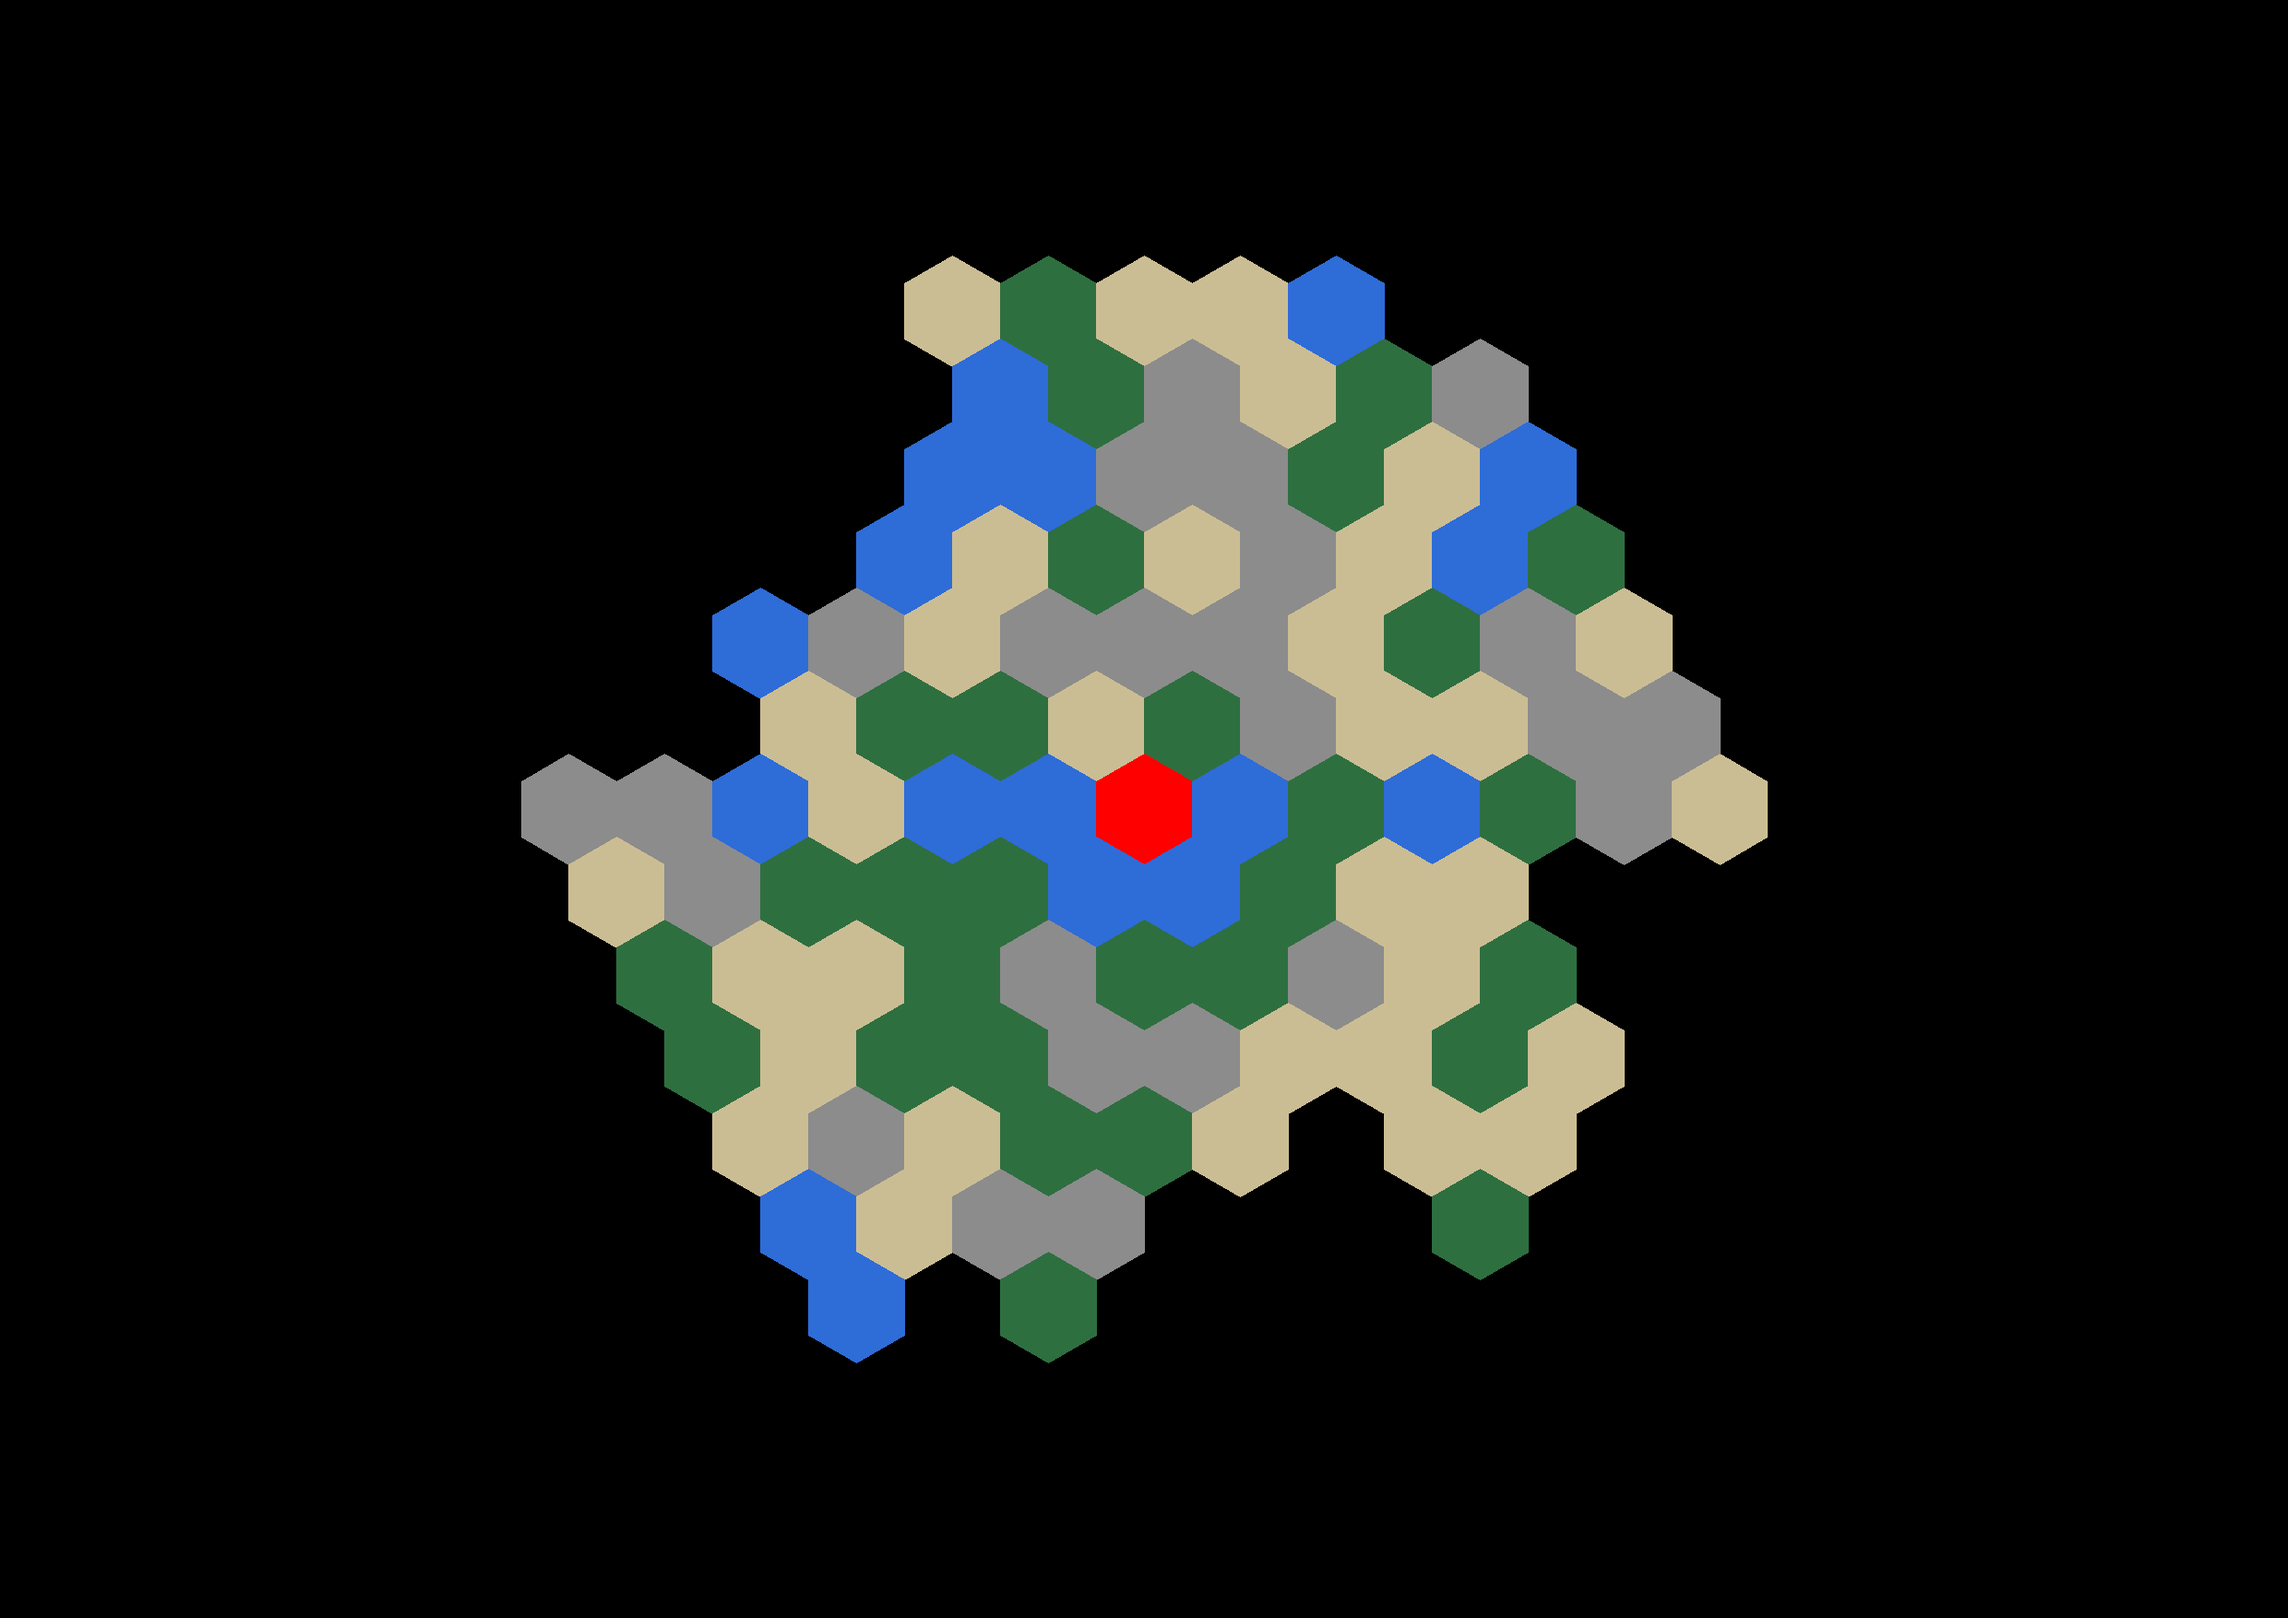
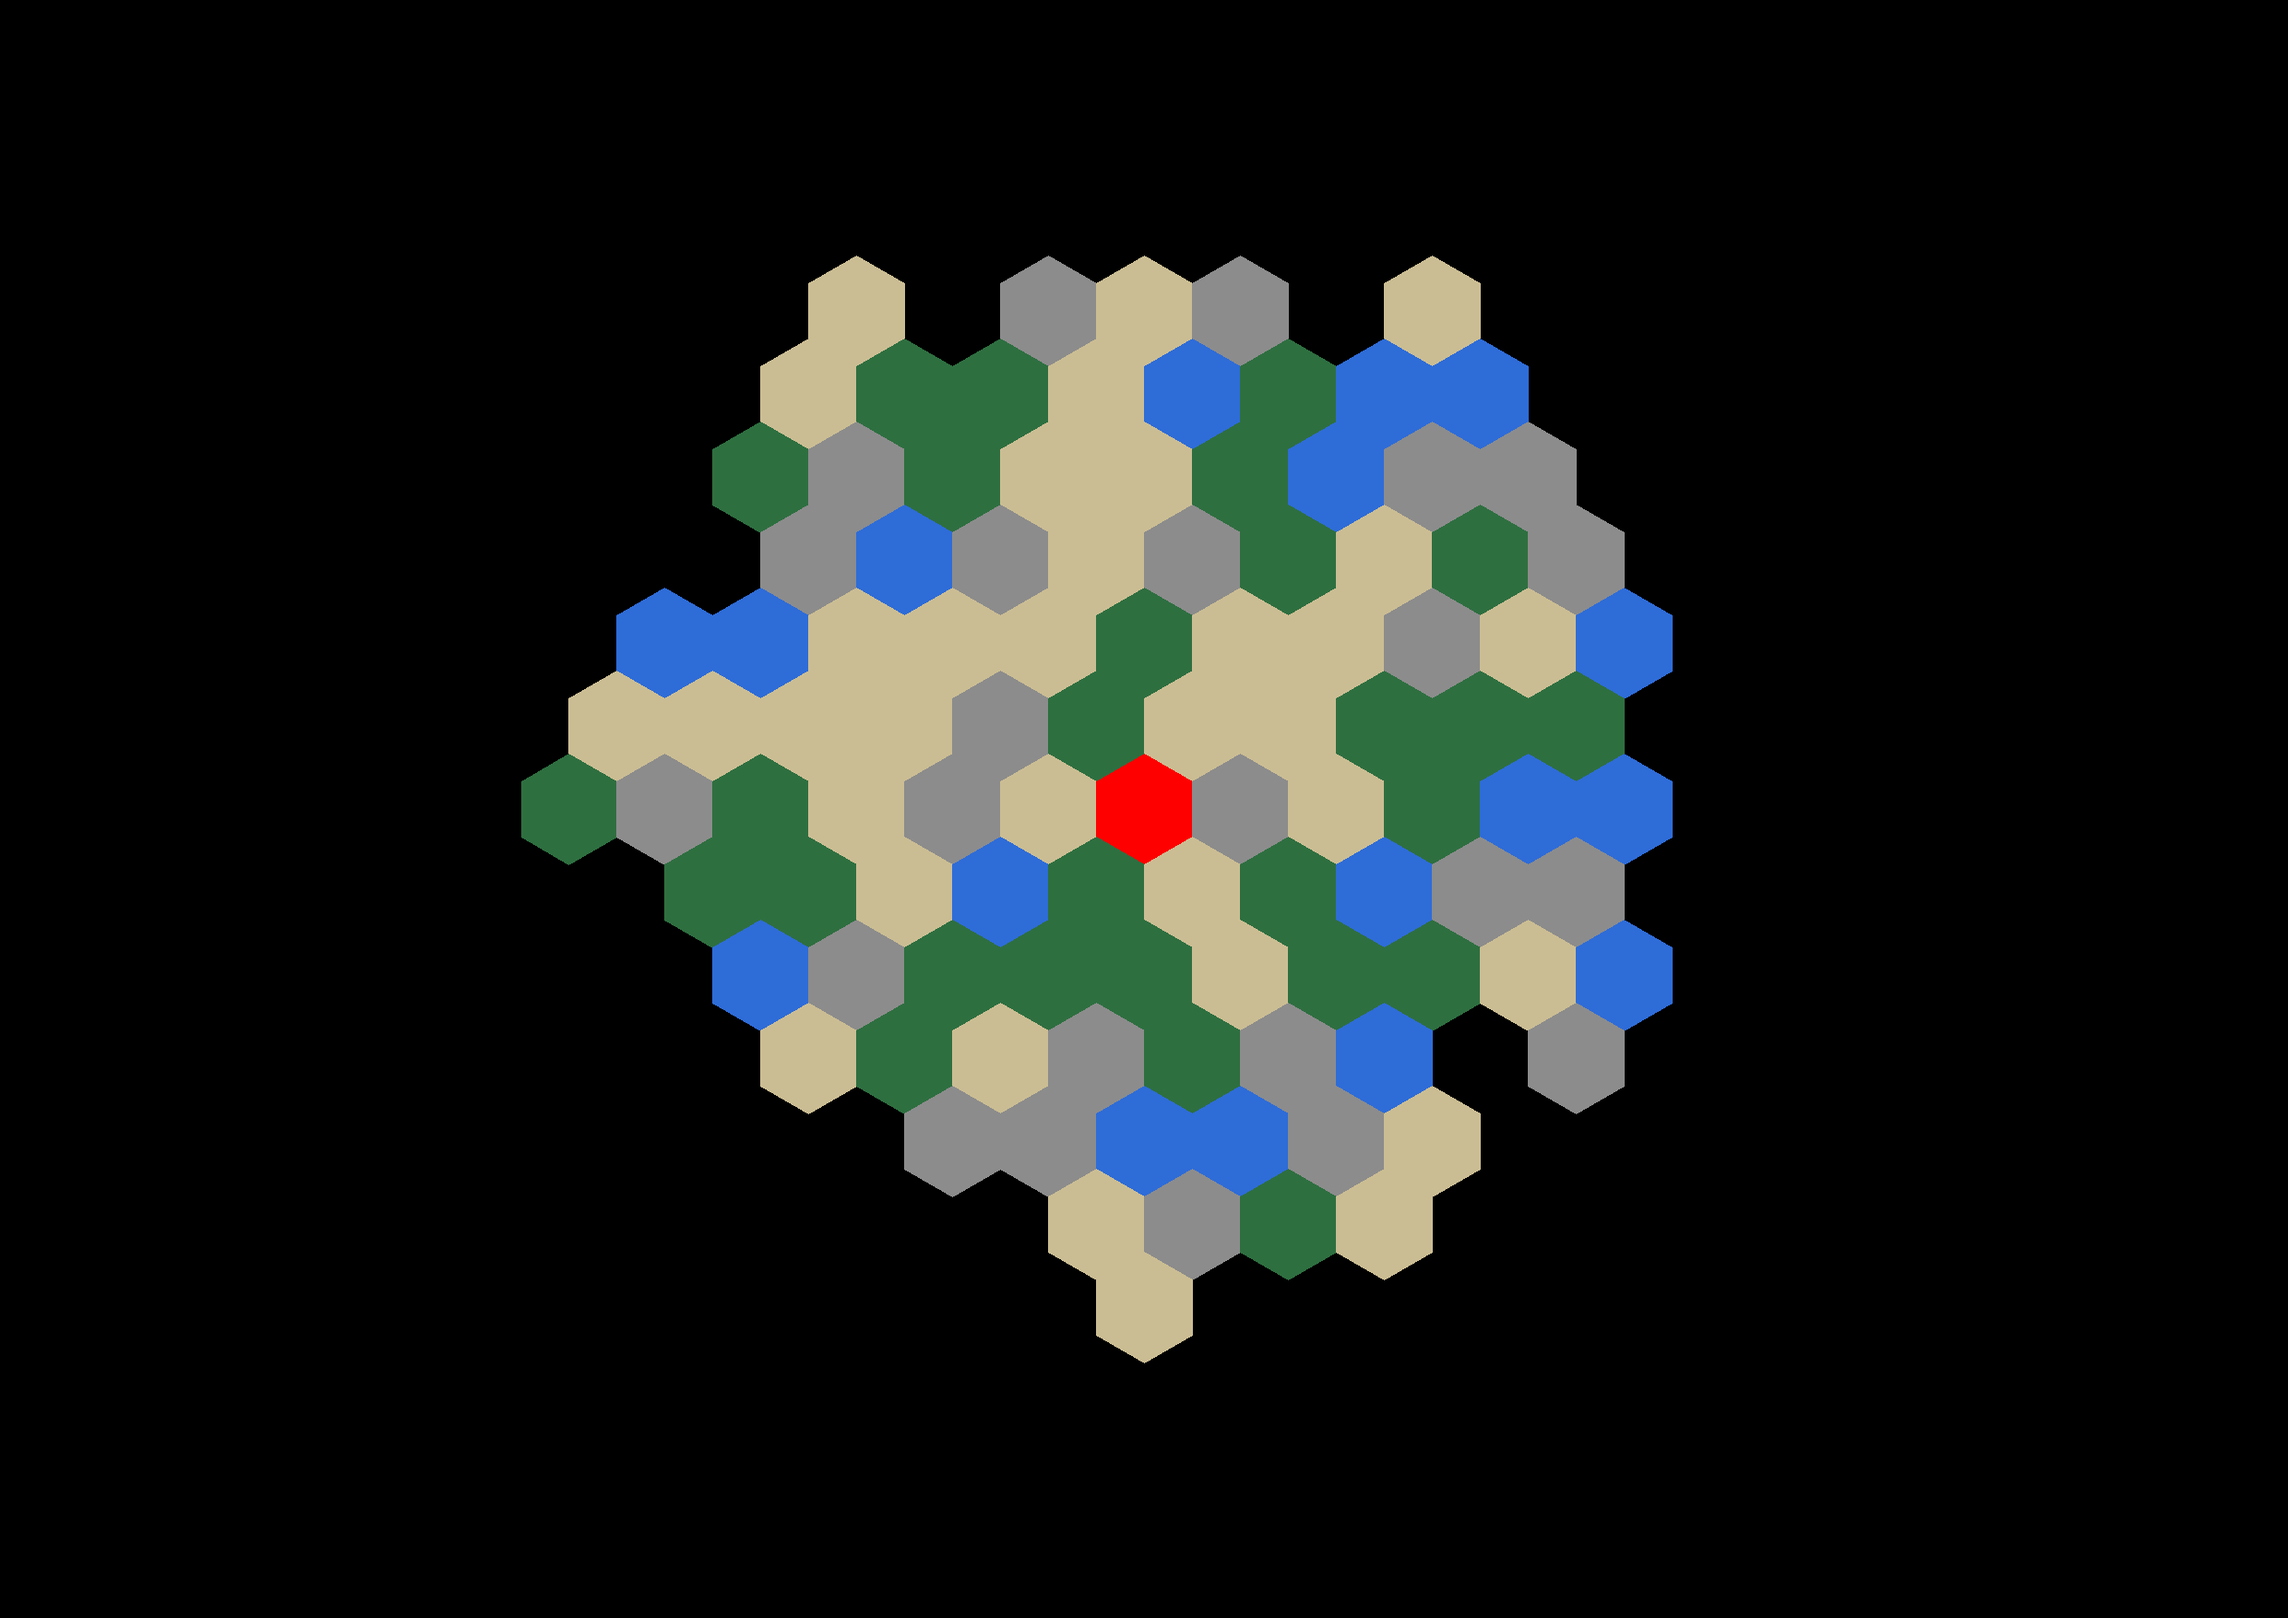
Enhance tile templates with primary and secondary art properties, and update hexmap logic for improved prop handling

Changed region(s): [[0.2173, 0.1539, 0.7762, 0.862]]

diff --git a/src/hexmap.rs b/src/hexmap.rs
@@ -21,6 +21,8 @@ const VILLAGE_COUNT: u8 = 10;
 const MIN_PROP_DISTANCE: u32 = 2;
 const ARTIFACT_COUNT_BIG: usize = 15;
 const ARTIFACT_COUNT_SMALL: usize = 10;
+const ARTIFACT_COUNT_PER_ART_BIG: usize = 3;
+const ARTIFACT_COUNT_PER_ART_SMALL: usize = 2;
 
 /// Matching for pattern `Option<T>::Some(a)|Option<T>::None`.
 /// 
@@ -41,6 +43,11 @@ macro_rules! rgb {
     };
 }
 
+/// First parameter is map_size
+/// 
+/// Second is if big
+/// 
+/// Third is if small
 macro_rules! match_size {
     ($name:expr, $big:expr, $small:expr) => {
         match $name {
@@ -57,6 +64,8 @@ pub enum MapSize {
     Big   = BIG_MAP_SIZE
 }
 
+#[allow(non_camel_case_types)]
+#[derive(Clone)]
 pub enum RawTileState {
     FreeToTake,
     Taken,
@@ -64,13 +73,13 @@ pub enum RawTileState {
 }
 
 #[allow(non_camel_case_types)]
+#[derive(Clone)]
 pub struct TileMap_rawShapeGen {
     map: HexagonalMap<RawTileState>,
     size: MapSize
 }
 impl TileMap_rawShapeGen {
-
-    #[must_use]
+    
     pub fn new<R: Rng>(size: MapSize, rng: &mut R) -> Result<Self> {
         let mut map = HexagonalMap::new(Hex::ZERO, match_size!(size, HEXMAP_RADIUS_BIG, HEXMAP_RADIUS_SMALL), |_| RawTileState::Unknown);
         map[Hex::ZERO] = RawTileState::FreeToTake;
@@ -141,13 +150,13 @@ impl Get<Hex> for TileMap_rawShapeGen {
 
 
 #[allow(non_camel_case_types)]
+#[derive(Clone)]
 pub struct TileMap_shape {
     map: HexagonalMap<bool>,
     size: MapSize
 }
 impl TileMap_shape {
     
-    #[must_use]
     pub fn new(from: TileMap_rawShapeGen) -> Result<Self> {
         let map = HexagonalMap::new(Hex::ZERO, match_size!(from.size, HEXMAP_RADIUS_BIG, HEXMAP_RADIUS_SMALL), |h| matches!(from[h], RawTileState::Taken));
         let out = Self { map, size: from.size };
@@ -249,26 +258,27 @@ impl DrawHexMap for TileMap_shape {
 
 
 #[allow(non_camel_case_types)]
+#[derive(Clone)]
 pub struct TileMap_templates {
     map: HexagonalMap<Option<TileTemplate>>,
     size: MapSize
 }
 impl TileMap_templates {
 
-    pub fn new<R: Rng>(rng: &mut R, from: &TileMap_shape) -> Result<Self> {
-        let mut tiles = Self::prepare_random_tiles(rng, from.size);
+    pub fn new<R: Rng>(rng: &mut R, shape: &TileMap_shape, props: &TileMap_props) -> Result<Self> {
+        let mut tiles = Self::prepare_random_tiles(rng, shape.size);
         // println!("{}", from.iter().filter(|(_, a)| **a).count());
 
         let out = Self { map: HexagonalMap::new(
             Hex::ZERO, 
-            match_size!(from.size, HEXMAP_RADIUS_BIG, HEXMAP_RADIUS_SMALL), 
-            |h| if from[h] {
+            match_size!(shape.size, HEXMAP_RADIUS_BIG, HEXMAP_RADIUS_SMALL), 
+            |h| if shape[h] {
                 Some(tiles.next().expect("invalid number of tiles in `TileMap_templates::prepare_random_tiles`"))
             } 
             else {
                 None
             }
-        ), size: from.size };
+        ), size: shape.size };
         Ok(out)
     }
 
@@ -283,19 +293,10 @@ impl TileMap_templates {
         self.size as u32
     }
 
-    pub fn prepare_random_tiles<R: Rng>(rng: &mut R, map_size: MapSize) -> impl Iterator<Item = TileTemplate> {
+    fn prepare_random_tiles<R: Rng>(rng: &mut R, map_size: MapSize) -> impl Iterator<Item = TileTemplate> {
         let mut out = Vec::new();
-        match map_size {
-            MapSize::Small => {
-                for template in [SAND, FOREST, MOUNTAIN, WATER] {
-                    out.extend(vec![template; template.amount_small()]);
-                }
-            },
-            MapSize::Big => {
-                for template in [SAND, FOREST, MOUNTAIN, WATER] {
-                    out.extend(vec![template; template.amount_big()]);
-                }
-            }
+        for template in [SAND, FOREST, MOUNTAIN, WATER] {
+            out.extend(vec![template; match_size!(map_size, template.amount_big(), template.amount_small())]);
         }
         out.shuffle(rng);
         out.into_iter()
@@ -332,13 +333,14 @@ impl DrawHexMap for TileMap_templates {
 
 
 #[allow(non_camel_case_types)]
+#[derive(Clone)]
 pub struct TileMap_props {
     map: HexagonalMap<PropOption>,
     size: MapSize
 }
 impl TileMap_props {
 
-    pub fn new<R: Rng>(_rng: &mut R, from: &TileMap_shape) -> Result<Self> {
+    pub fn new<R: Rng>(rng: &mut R, from: &TileMap_shape) -> Result<Self> {
         let mut output = Self {
             map: HexagonalMap::new(
                 Hex::ZERO, 
@@ -350,7 +352,18 @@ impl TileMap_props {
         if output.has_invalid_villages() {
             Err("found villages placed too close to each others")?;
         }
-        output.place_props(from)?;
+        output.place_prop_places(from)?;
+        // let clone = output.clone();
+        // let spots = clone.iter().filter_map(|a| if let (h, PropOption::CanHave) = a {Some(h)} else {None});
+        // for (prop, place) in Iterator::zip(Self::prepare_random_props(rng,from.size), spots) {
+        //     output[place].give_prop(prop, false);
+        // }
+        let mut props = Self::prepare_random_props(rng,from.size);
+        output.map
+        .iter_mut()
+        .for_each(|(_, prop)| 
+            if let PropOption::CanHave = *prop 
+                {prop.give_prop(props.next().expect("ran out of random props"), false);});
 
         Ok(output)
     }
@@ -390,7 +403,7 @@ impl TileMap_props {
         })
     }
 
-    fn place_props(&mut self, shape: &TileMap_shape) -> Result<()> {
+    fn place_prop_places(&mut self, shape: &TileMap_shape) -> Result<()> {
         macro_rules! prepare_new_ring {
             ($size:expr) => {
                 Hex::ZERO.ring($size).step_by(MIN_PROP_DISTANCE as usize)
@@ -425,6 +438,24 @@ impl TileMap_props {
         Ok(())
     }
 
+    fn prepare_random_props<R: Rng>(rng: &mut R, map_size: MapSize) -> impl Iterator<Item = Prop> {
+        let mut out = Vec::new();
+        let artifact_count_per_art = match_size!(map_size, ARTIFACT_COUNT_PER_ART_BIG, ARTIFACT_COUNT_PER_ART_SMALL);
+        for prop in [SAND.primary_art(), FOREST.primary_art(), MOUNTAIN.primary_art(), WATER.primary_art()] {
+            out.extend(vec![prop; artifact_count_per_art]);
+        }
+        // for prop in [SAND.secondary_art(), FOREST.secondary_art(), MOUNTAIN.secondary_art(), WATER.secondary_art()] {
+        //     if let Some(item) = prop {out.extend(vec![item; artifact_count_per_art])};
+        // }
+        for item in [SAND.secondary_art(), FOREST.secondary_art(), MOUNTAIN.secondary_art(), WATER.secondary_art()]
+            .into_iter()
+            .flatten() 
+        {out.extend(vec![item; artifact_count_per_art])}
+
+        out.shuffle(rng);
+        out.into_iter()
+    }
+
     #[inline(always)]
     pub fn iter(&self) -> impl Iterator<Item = (Hex, &PropOption)> {
         self.map.iter()
@@ -436,7 +467,6 @@ impl TileMap_props {
         self.size as u32
     }
 }
-
 impl Index<Hex> for TileMap_props {
     type Output = PropOption;
     fn index(&self, index: Hex) -> &Self::Output {

diff --git a/src/tiles.rs b/src/tiles.rs
@@ -58,7 +58,10 @@ impl PropOption {
 pub struct TileTemplate {
     color: Rgb<u8>,
     amount_small: usize,
-    amount_big: usize
+    amount_big: usize,
+
+    primary_art: Prop,
+    secondary_art: Option<Prop>
 }
 impl TileTemplate {
 
@@ -78,6 +81,18 @@ impl TileTemplate {
     #[must_use]
     pub const fn amount_big(&self) -> usize {
         self.amount_big
+    }
+
+    #[inline(always)]
+    #[must_use]
+    pub const fn primary_art(&self) -> Prop {
+        self.primary_art
+    }
+
+    #[inline(always)]
+    #[must_use]
+    pub const fn secondary_art(&self) -> Option<Prop> {
+        self.secondary_art
     }
 }
 
@@ -107,7 +122,7 @@ pub enum Prop {
 }
 
 
-pub const SAND:     TileTemplate = TileTemplate { color: Rgb([203, 189, 147]), amount_small: 24, amount_big: 34 };
-pub const FOREST:   TileTemplate = TileTemplate { color: Rgb([46 , 111, 64 ]), amount_small: 20, amount_big: 29 };
-pub const MOUNTAIN: TileTemplate = TileTemplate { color: Rgb([140, 140, 140]), amount_small: 16, amount_big: 24 };
-pub const WATER:    TileTemplate = TileTemplate { color: Rgb([46 , 108, 216]), amount_small: 13, amount_big: 17 };
+pub const SAND:     TileTemplate = TileTemplate { color: Rgb([203, 189, 147]), amount_small: 24, amount_big: 34, primary_art: Prop::Monolith   , secondary_art: None             };
+pub const FOREST:   TileTemplate = TileTemplate { color: Rgb([46 , 111, 64 ]), amount_small: 20, amount_big: 29, primary_art: Prop::Bird       , secondary_art: Some(Prop::Book) };
+pub const MOUNTAIN: TileTemplate = TileTemplate { color: Rgb([140, 140, 140]), amount_small: 16, amount_big: 24, primary_art: Prop::WeirdMonkey, secondary_art: None             };
+pub const WATER:    TileTemplate = TileTemplate { color: Rgb([46 , 108, 216]), amount_small: 13, amount_big: 17, primary_art: Prop::Dragon     , secondary_art: None             };

diff --git a/src/main.rs b/src/main.rs
@@ -17,8 +17,8 @@ fn try_gen<R: Rng>(rng: &mut R) -> Result<(TileMap_shape, TileMap_templates, Til
     let raw = TileMap_rawShapeGen::new(MapSize::Big, rng)?;
     let shape = TileMap_shape::new(raw)?;
 
-    let templates = TileMap_templates::new(rng, &shape)?;
     let props = TileMap_props::new(rng, &shape)?;
+    let templates = TileMap_templates::new(rng, &shape, &props)?;
     Ok((shape, templates, props))
 }
 
@@ -31,12 +31,8 @@ fn main() -> Result<(), Box<dyn Error>> {
     
     let (shape, templates, props) = loop {
         let res= try_gen(&mut rng);
-        if res.is_ok() {
-            break res.unwrap()
-        }
-        else {
-            println!("{}", res.err().unwrap())
-        }
+        if let Ok(value) = res {break value} 
+        else {println!("{}", res.err().unwrap())}
     };
     
     
